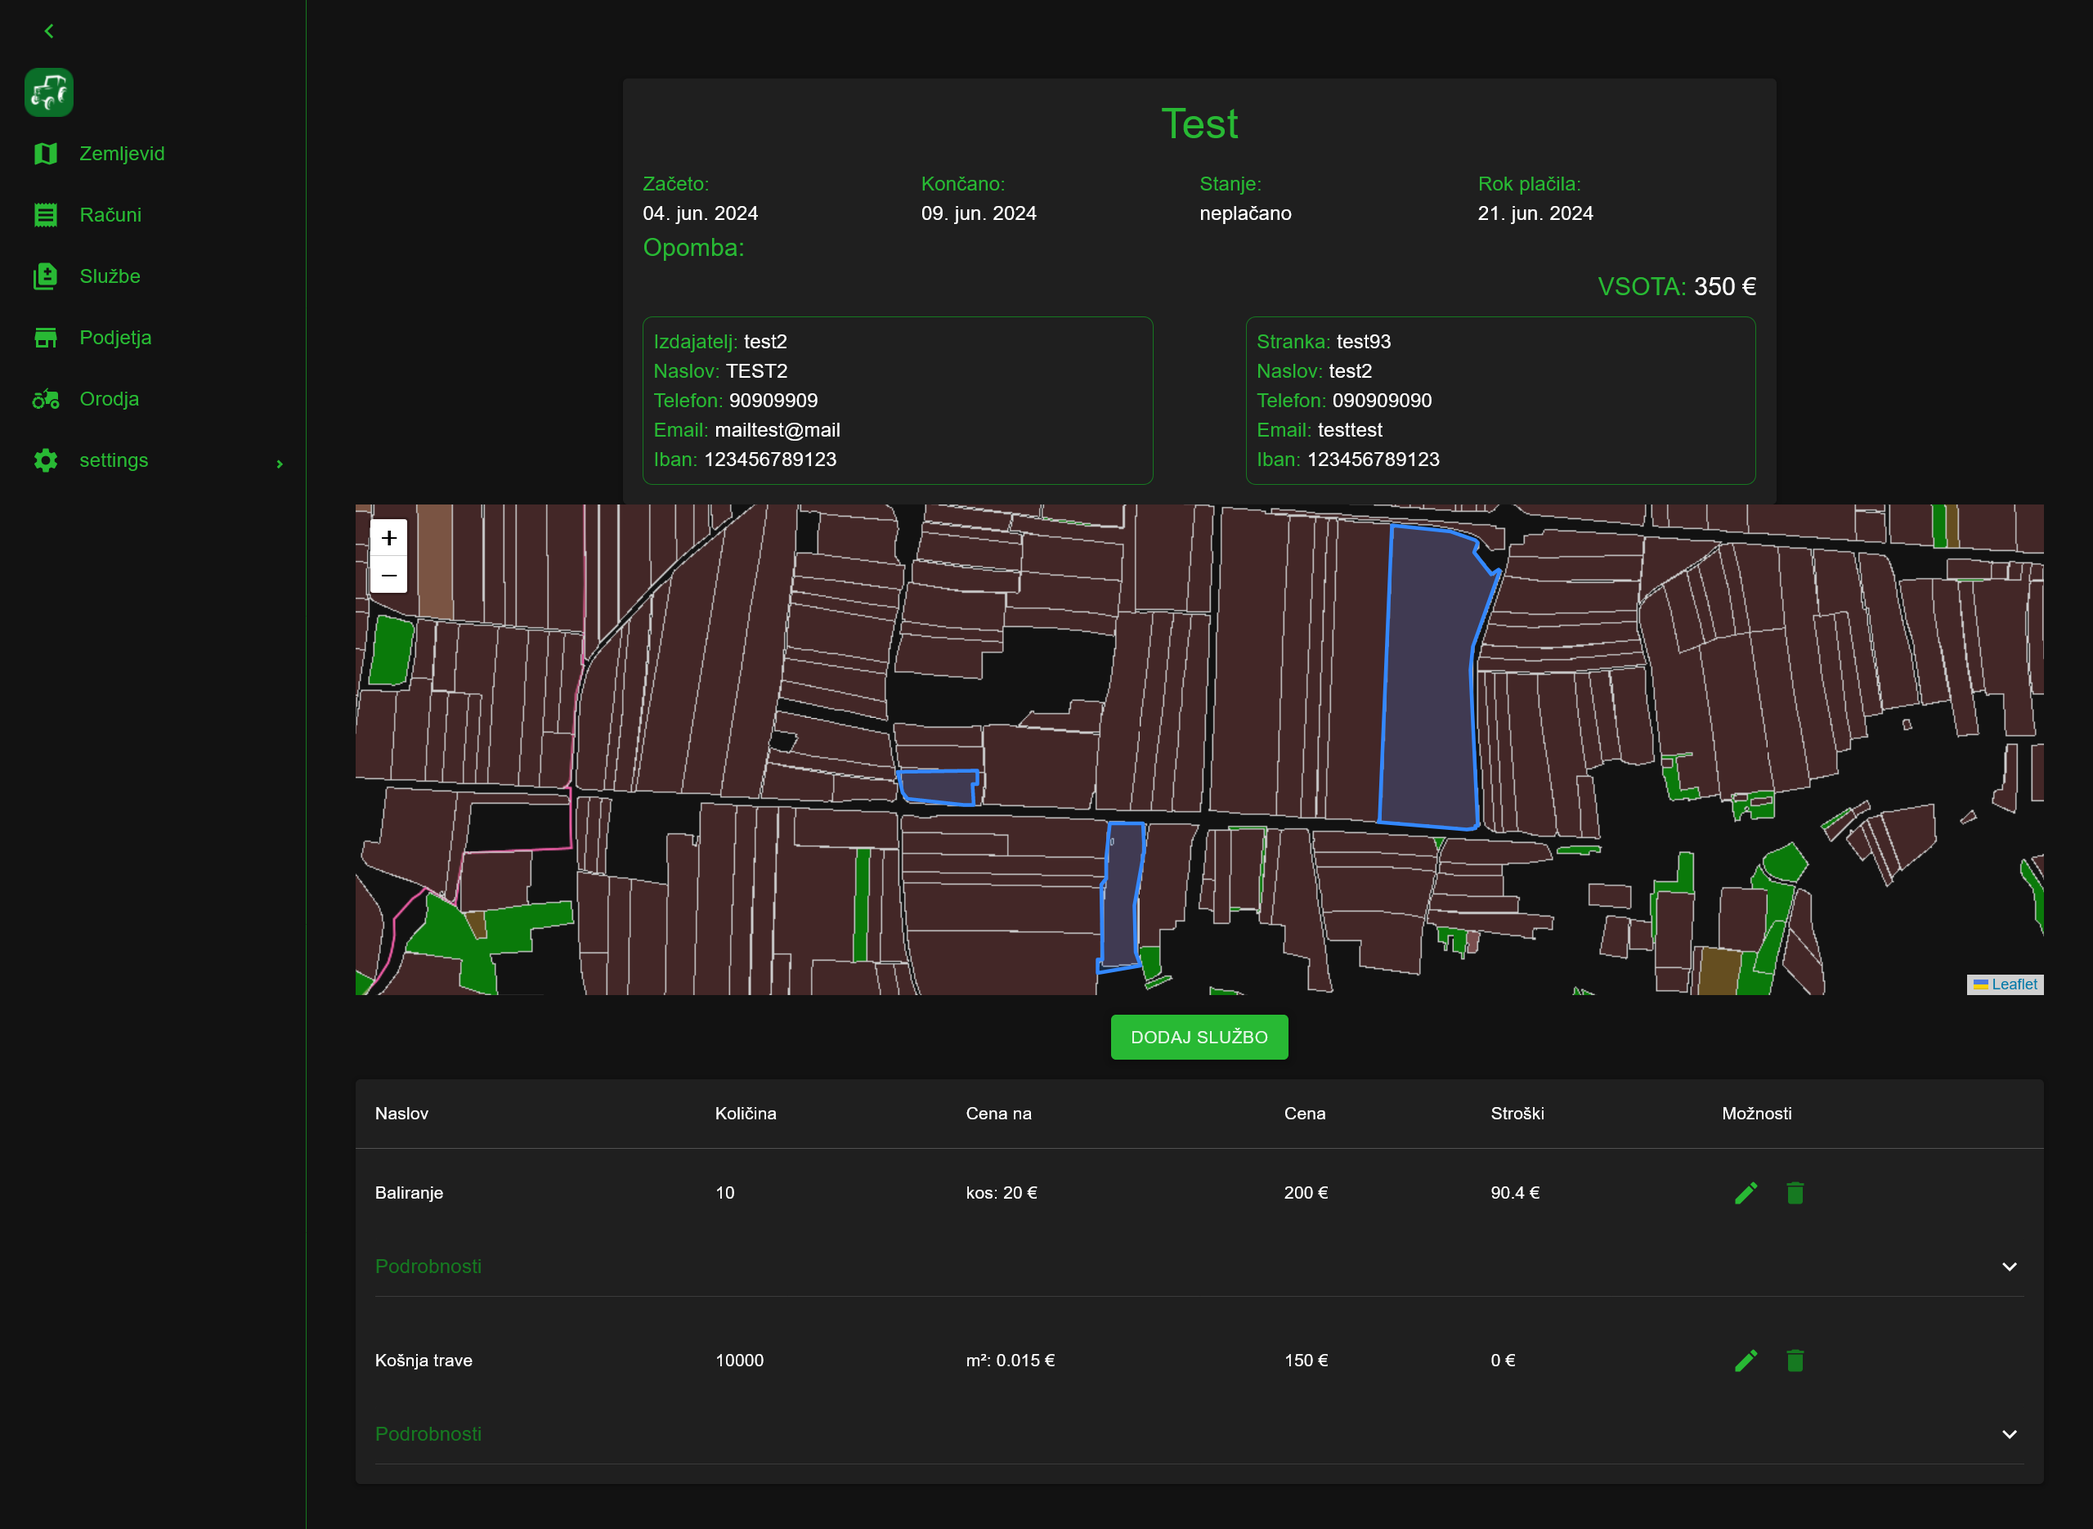
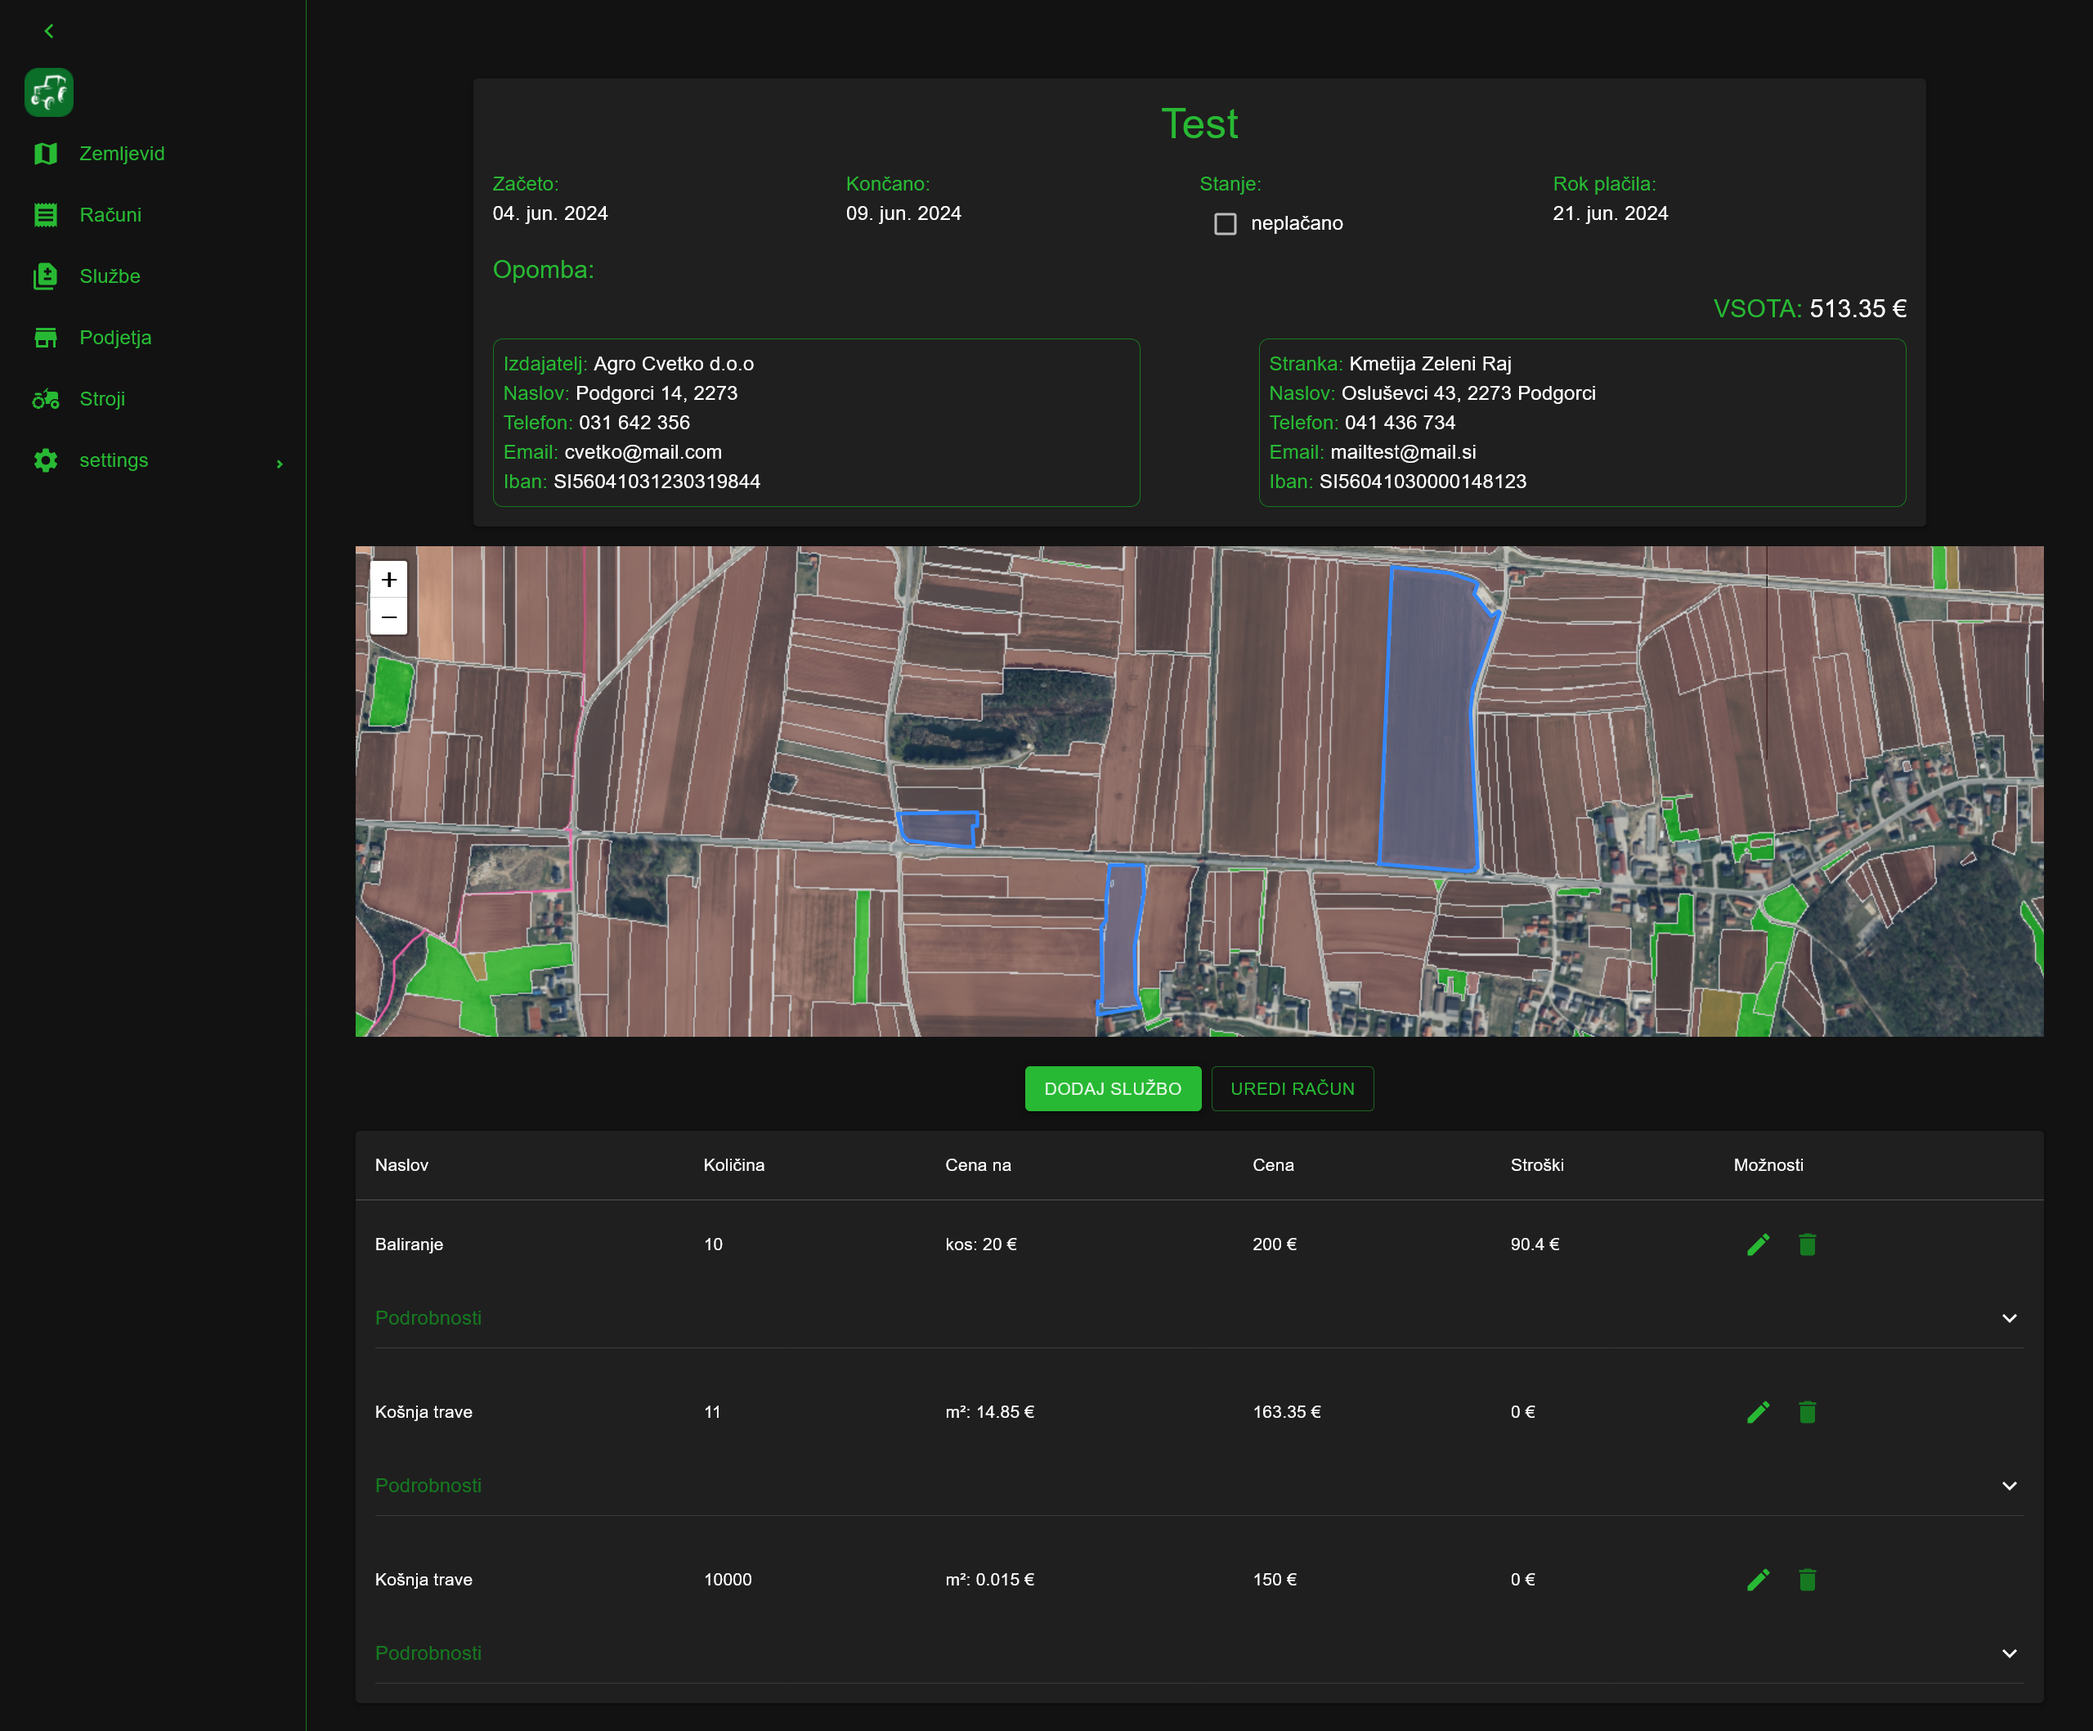
Updated images and route names

diff --git a/src/components/SideMenu.js b/src/components/SideMenu.js
@@ -16,6 +16,7 @@ import {Avatar} from "@mui/material";
 import {UserContext} from "../store/userContext";
 import LogoutIcon from '@mui/icons-material/Logout';
 import PeopleIcon from '@mui/icons-material/People';
+import LogoPic from './../assets/logo.png'
 
 const subMenuContentStyles = {
   ['.' + menuClasses.subMenuContent]: {
@@ -76,8 +77,7 @@ function SideMenu() {
             </IconButton>
           </MenuItem>
           <MenuItem component={<Link to="/"/>}>
-            <Avatar variant="square" src="./favicon.ico">
-            </Avatar>
+            <Avatar variant="square" src={LogoPic} />
           </MenuItem>
           <MenuItem icon={<MapIcon/>} component={<Link to="/map"/>}> Zemljevid </MenuItem>
           <MenuItem icon={<ReceiptIcon/>} component={<Link to="/invoices"/>}>
@@ -89,7 +89,9 @@ function SideMenu() {
           <MenuItem icon={<StoreIcon/>} component={<Link to="/companies"/>}>
             Podjetja
           </MenuItem>
-          <MenuItem icon={<AgricultureIcon/>} component={<Link to="/equipment"/>}> Orodja </MenuItem>
+          <MenuItem icon={<AgricultureIcon/>} component={<Link to="/equipment"/>}> 
+            Stroji
+          </MenuItem>
           <SubMenu
             label="settings"
             rootStyles={subMenuContentStyles}

diff --git a/src/pages/EquipmentPage.js b/src/pages/EquipmentPage.js
@@ -86,8 +86,8 @@
 
         return (
             <Box sx={{ display: 'flex', flexDirection: 'column', alignItems: 'center',  ml: 5, mr: 5, mt: 4, color: myTheme.palette.primary.main, flex: 1 }}>
-                <Typography variant="h4" sx={{ mb: 2, color: myTheme.palette.primary.main }}>Orodje</Typography>
-                <Button variant="contained" color="primary" sx={{ mb: 2 }} onClick={handleAddEquipment}>Dodaj Orodje</Button>
+                <Typography variant="h4" sx={{ mb: 2, color: myTheme.palette.primary.main }}>Stroji in oprema</Typography>
+                <Button variant="contained" color="primary" sx={{ mb: 2 }} onClick={handleAddEquipment}>Dodaj stroj</Button>
                 { editingEquipment && <EditEquipment
                   equipment={editingEquipment}
                     setEquipment={setEditingEquipment}

diff --git a/src/components/equipment/EditEquipment.js b/src/components/equipment/EditEquipment.js
@@ -47,7 +47,7 @@ function EditEquipment({ equipment, setEquipment = (eq) => {}, onConfirmed = (eq
           <TextField
             select
             required
-            label='Vrsta Orodja'
+            label='Vrsta stroja'
             value={localEquipment.equipmentType}
             SelectProps={{ MenuProps: { style: { maxHeight: 300, }, }, }}
             onChange={e => handleChange( 'equipmentType', e.target.value )}

diff --git a/src/routing.js b/src/routing.js
@@ -27,7 +27,7 @@ function Routes() {
           document.title = "Zemljevid";
           break;
         case "/equipment":
-          document.title = "Oprema";
+          document.title = "Stroji";
           break;
         case "/":
           document.title = "Statistika";

diff --git a/src/App.js b/src/App.js
@@ -1,4 +1,4 @@
-import React, { useContext } from "react";
+import { useContext } from "react";
 import LoginPage from "./pages/LoginPage";
 import { UserContext } from "./store/userContext";
 import Routes from "./routing";
